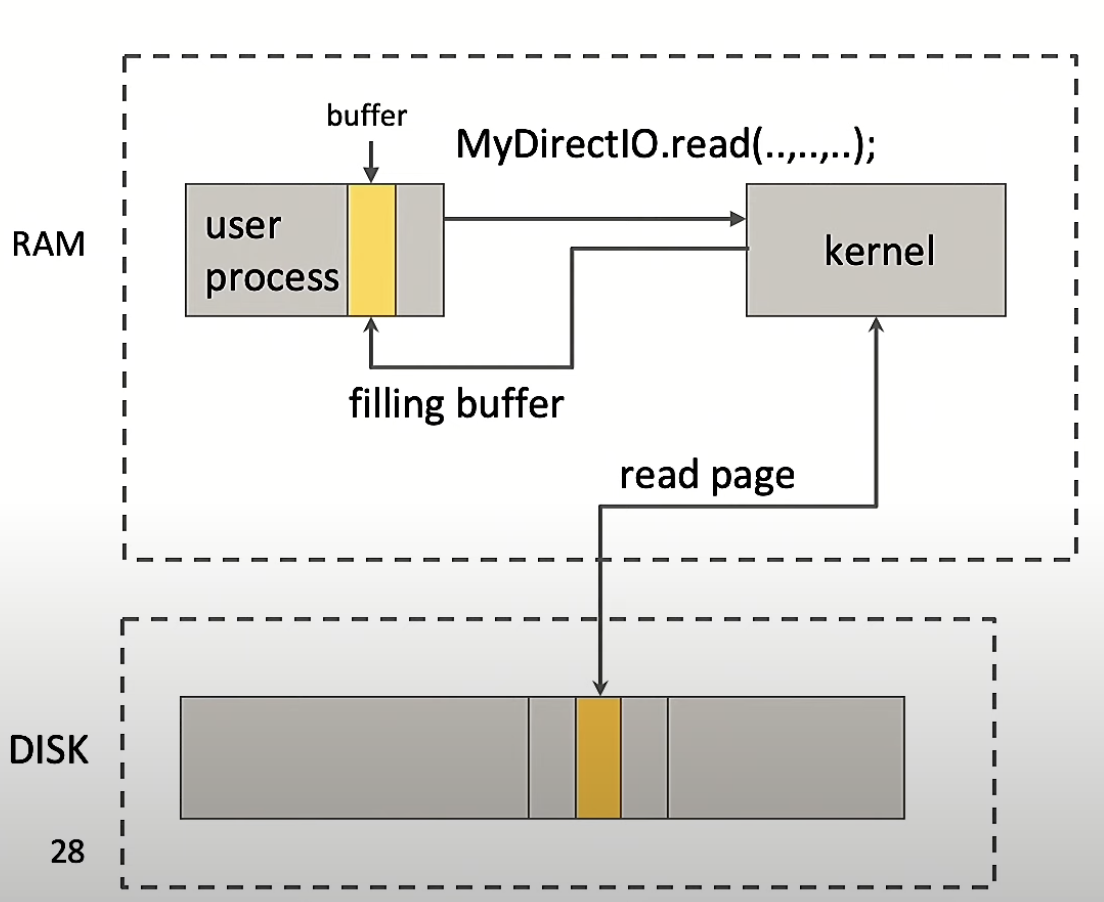
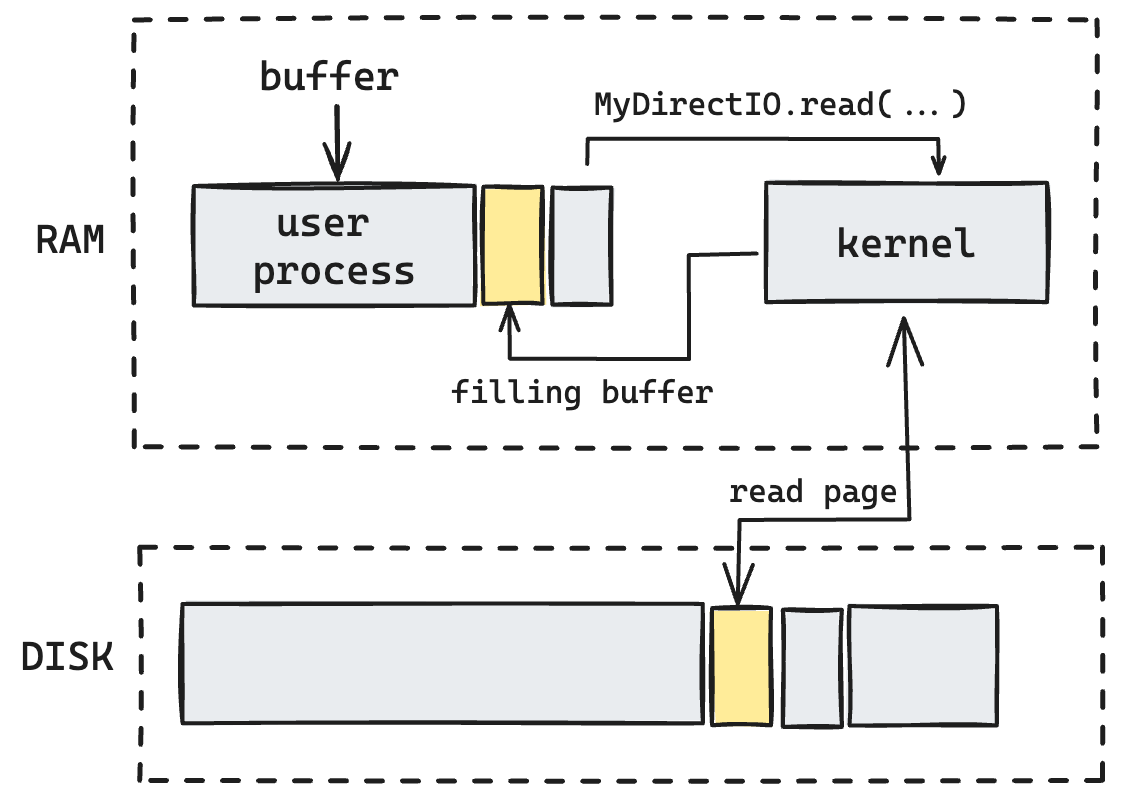
Update README

diff --git a/README.md b/README.md
@@ -117,7 +117,7 @@ are exceptionally fast.
 
 The majority of modern SSD disks are constructed using **NAND** flash memory technology:
 
-<img width="640" src="plots/NAND_flash_design.png">
+<img src="plots/NAND_flash_design.png">
 
 Simply put, this means that a disk has a minimal unit of data storage known as a page 
 (typically 4KB, 8KB, or 16KB in size), and a certain number of these pages form a block 
@@ -133,7 +133,7 @@ writes a long datatype value with some shift. When request comes to the disk:
 - _New Page Creation_: Instead of directly overwriting the current page, the controller creates a new page within the same block to accommodate the updated data.
 - _Write Operation_: The updated data in the internal buffer is written to the new page within the **block**.
 
-<img width="320" height="240" src="./plots/NAND_flash_write.png">
+<img src="./plots/NAND_flash_write.png">
 
 _Summary_:
 - **Write Operation**: Each write operation results in the creation of a new page. 
@@ -152,19 +152,19 @@ NAND by design can operate by blocks only, it does not perform any operations on
 Controller makes constant observation of disk space, and then it identifies by threshold there about
 N percents have been used, it starts operation of internal garbage collection.
 
-<img width="320" src="./plots/NAND_flash_erase_1.png">
+<img src="./plots/NAND_flash_erase_1.png">
 
 The SSD controller utilizes its internal indexes to identify fresh pages for garbage collection. 
 When triggered, it takes a snapshot of the current pages within the "old" block and proceeds to copy all 
 valid pages to an available fresh block.
 
-<img width="320" src="./plots/NAND_flash_erase_2.png">
+<img src="./plots/NAND_flash_erase_2.png">
 
 After this process, the controller proceeds to clean up the entire old block. This entire procedure, 
 involving the movement of data and the cleanup of blocks, is referred to as internal garbage collection (GC). 
 It's important to note that during the internal GC process, the overall IO latency might degrade.
 
-<img width="320" src="./plots/NAND_flash_erase_3.png">
+<img src="./plots/NAND_flash_erase_3.png">
 
 Summary:
 - Disk Operation: Disks operate by pages. To achieve optimal write amplification and throughput, 
@@ -187,7 +187,7 @@ system kernel to facilitate the IO operations via the appropriate device driver 
 This interaction between the application in user space and the kernel for IO operations ensures efficient 
 data handling and resource management.
 
-<img width="320" src="./plots/OS_syscall.png">
+<img src="./plots/OS_syscall.png">
 
 _Note_: As of JDK versions up to 8, the JVM does not offer a non-blocking call mechanism for performing IO operations, 
 primarily due to UNIX not supporting non-blocking I/O for files. To maintain platform consistency across 
@@ -239,7 +239,7 @@ From the user's perspective when requesting data from disk:
 
 This caching mechanism helps improve overall system performance by reducing the need for frequent disk accesses, as data that has been recently accessed is stored in memory for faster retrieval.
 
-<img width="320" src="./plots/OS_Page_Cache.png">
+<img src="./plots/OS_Page_Cache.png">
 
 The kernel has full control over the page cache, including the decision to load or evict pages. 
 This means that any page stored in the cache can be evicted by the kernel based on its internal management policies and resource availability. 
@@ -449,21 +449,25 @@ to share data without the need for explicit copying or synchronization mechanism
 region by one process can be immediately observed by other processes, facilitating seamless communication and coordination 
 between different parts of the system.
 
-----
-
 ### Disable cache with O_DIRECT
 
-In some use cases we do not need to have page cache at all. We want to have full control of data which we read or write.
-The directive `O_DIRECT` applied to `syscall` `open`.
+In certain use cases, having full control over data without relying on the page cache can be crucial. 
+This is where the `O_DIRECT` flag comes into play, which can be applied to the `open` _syscall_.
 
-<img width="320" src="./plots/O_DIRECT.png">
+<img src="./plots/O_DIRECT.png">
 
 Why would we use that directive at all assuming page cache is great tool to improve latency of yours file IO calls?
 If you are using your own page cache model (by example for database) you do not need to either have one more default from linux.
 
-O_DIRECT having the following limits:
-- You are able to read/write only by aligned blocks (not shifting)
-- Since page cache is disabled, read ahead option won't work either
+When using `O_DIRECT`, data is read **directly** from the disk to the application's buffer and written directly from the 
+application's buffer to the disk, bypassing the page cache entirely. This provides applications with precise control over 
+data handling and eliminates any potential caching effects.
+
+Some common use cases for using O_DIRECT include:
+- Applications requiring low-latency access to data, where avoiding the overhead of the page cache can improve performance.
+- Real-time applications that need deterministic IO behavior, as `O_DIRECT` ensures that IO operations are not subject 
+to page cache management and associated unpredictability.
+- Applications that need to manage their own caching mechanisms or have specific requirements for data integrity and consistency.
 
 If you're using JDK 17, that feature have been implemented there - 
 https://github.com/openjdk/jdk/commit/ec1c3bce45261576d64685a9f9f8eff163ea9452
@@ -476,6 +480,8 @@ import java.nio.file.StandardOpenOption;
 
 FileChannel fc = FileChannel.open(f.toPath(), StandardOpenOption.WRITE, ExtendedOpenOption.DIRECT);
 ```
+
+----
 
 For JDK less than 17 there is library https://github.com/smacke/jaydio/tree/master. For JDK 8 and 11, 
 there is old but good library built by Stephen Macke - https://github.com/smacke/jaydio.
